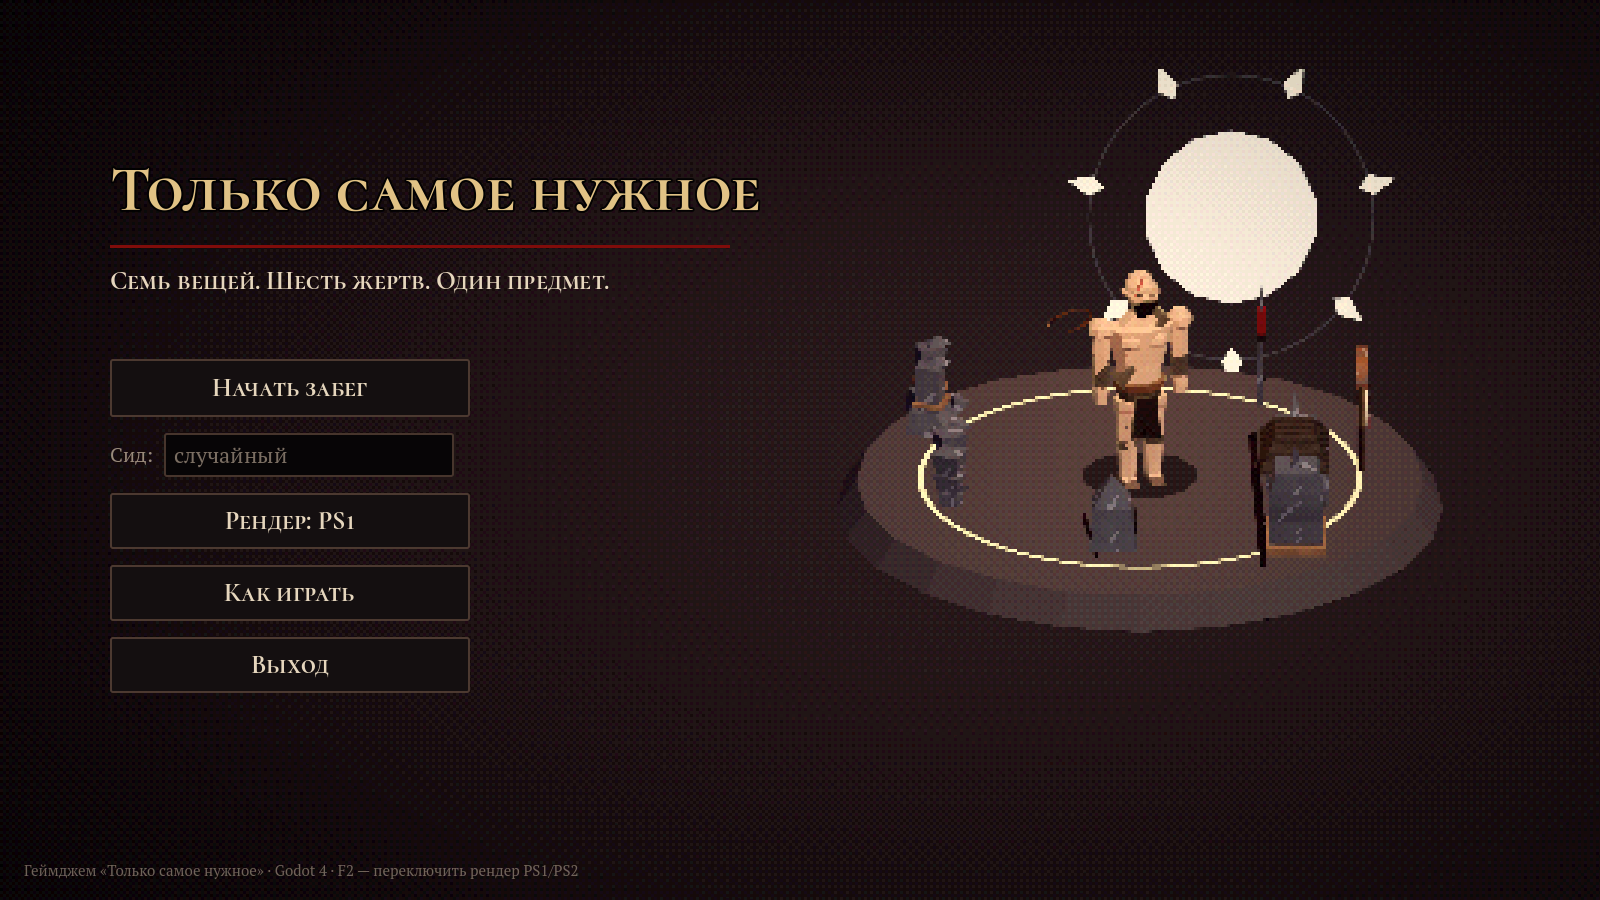
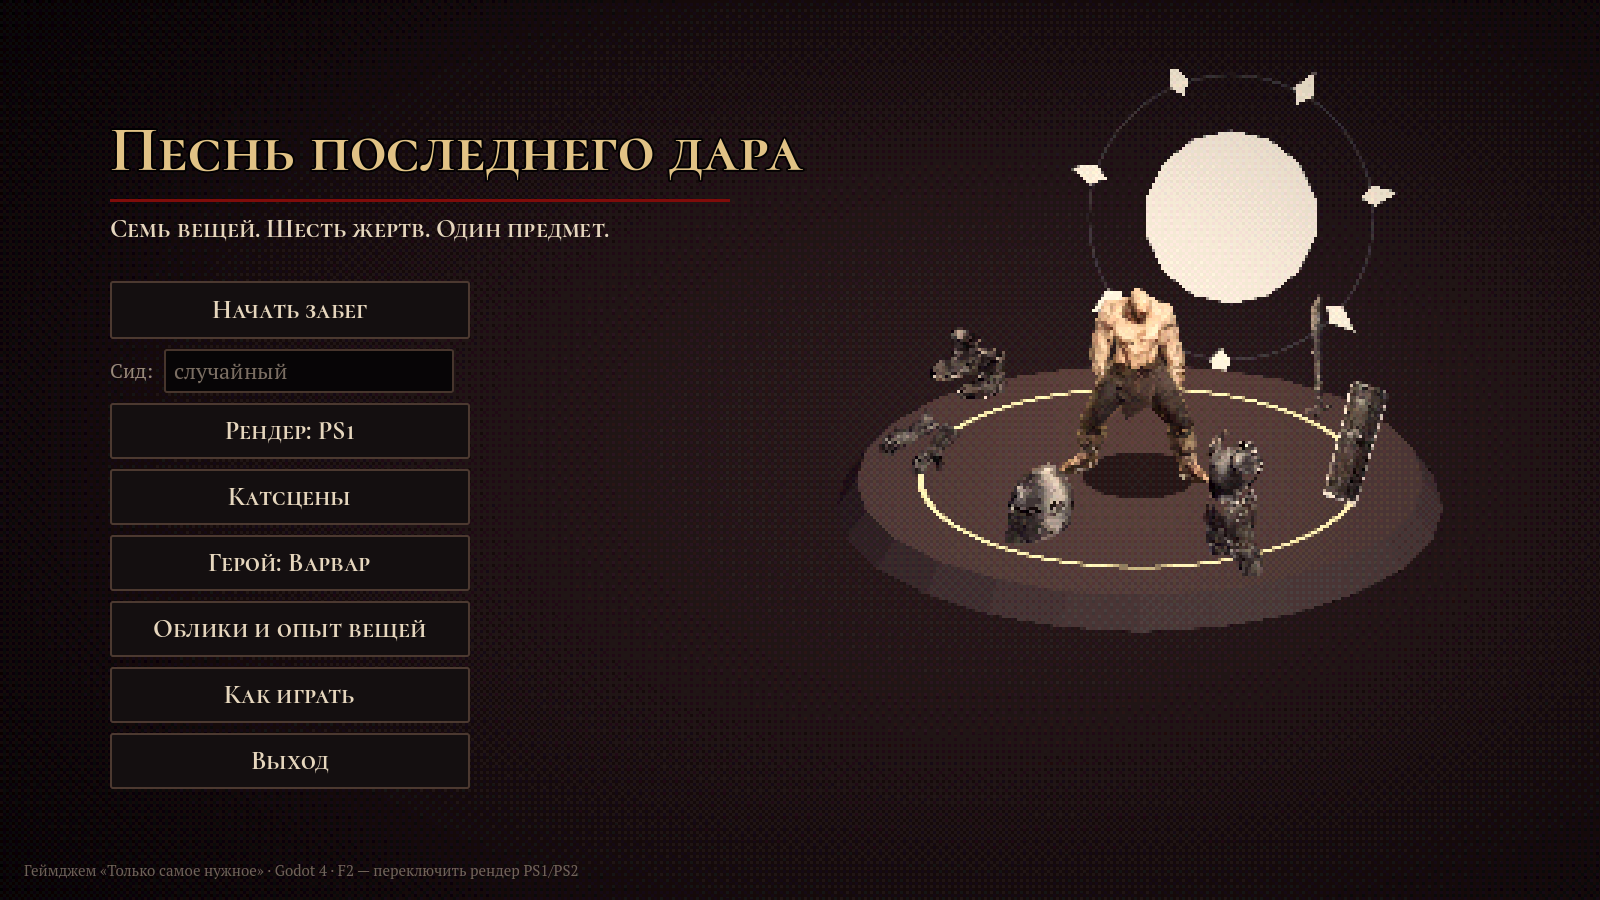
Rename game to Песнь последнего дара

diff --git a/tools/story_table.py b/tools/story_table.py
@@ -291,7 +291,7 @@ wb = Workbook()
 info = wb.active
 info.title = "Как заполнять"
 info.sheet_view.showGridLines = False
-info["A1"] = "Сюжет «Только самое нужное» — таблица реплик"
+info["A1"] = "Сюжет «Песнь последнего дара» — таблица реплик"
 info["A1"].font = Font(name=FONT, size=16, bold=True)
 notes = [
     "Лист «Диалоги» — все тексты сцен по порядку: что на экране → кто говорит → текст.",

diff --git a/docs/DESIGN.md b/docs/DESIGN.md
@@ -1,6 +1,6 @@
-# Только самое нужное: как устроено и что решено
+# Песнь последнего дара: как устроено и что решено
 
-Исходное ТЗ — `Промпт — Только самое нужное_ARPG.md`. Здесь собраны решения там, где ТЗ допускало толкования, и устройство проекта.
+Исходное ТЗ — `Промпт — Песнь последнего дара_ARPG.md`. Здесь собраны решения там, где ТЗ допускало толкования, и устройство проекта.
 
 ## Толкования ТЗ
 

diff --git a/Промпт — Песнь последнего дара_ARPG.md b/Промпт — Песнь последнего дара_ARPG.md
@@ -1,4 +1,4 @@
-# «Только самое нужное» — промпт на разработку игры
+# «Песнь последнего дара» — промпт на разработку игры
 
 Сделай полностью готовую игру на **Godot 4 (GDScript)** — изометрическую 3D ARPG-роглайт для геймджема на тему «Только самое нужное». Ниже описана вся игра. Результат — забег, который проходится от главного меню до финальной карточки, с экспортом под Windows и Web.
 

diff --git a/README.md b/README.md
@@ -1,4 +1,4 @@
-# Только самое нужное
+# Песнь последнего дара
 
 **Семь вещей. Шесть жертв. Один предмет.**
 
